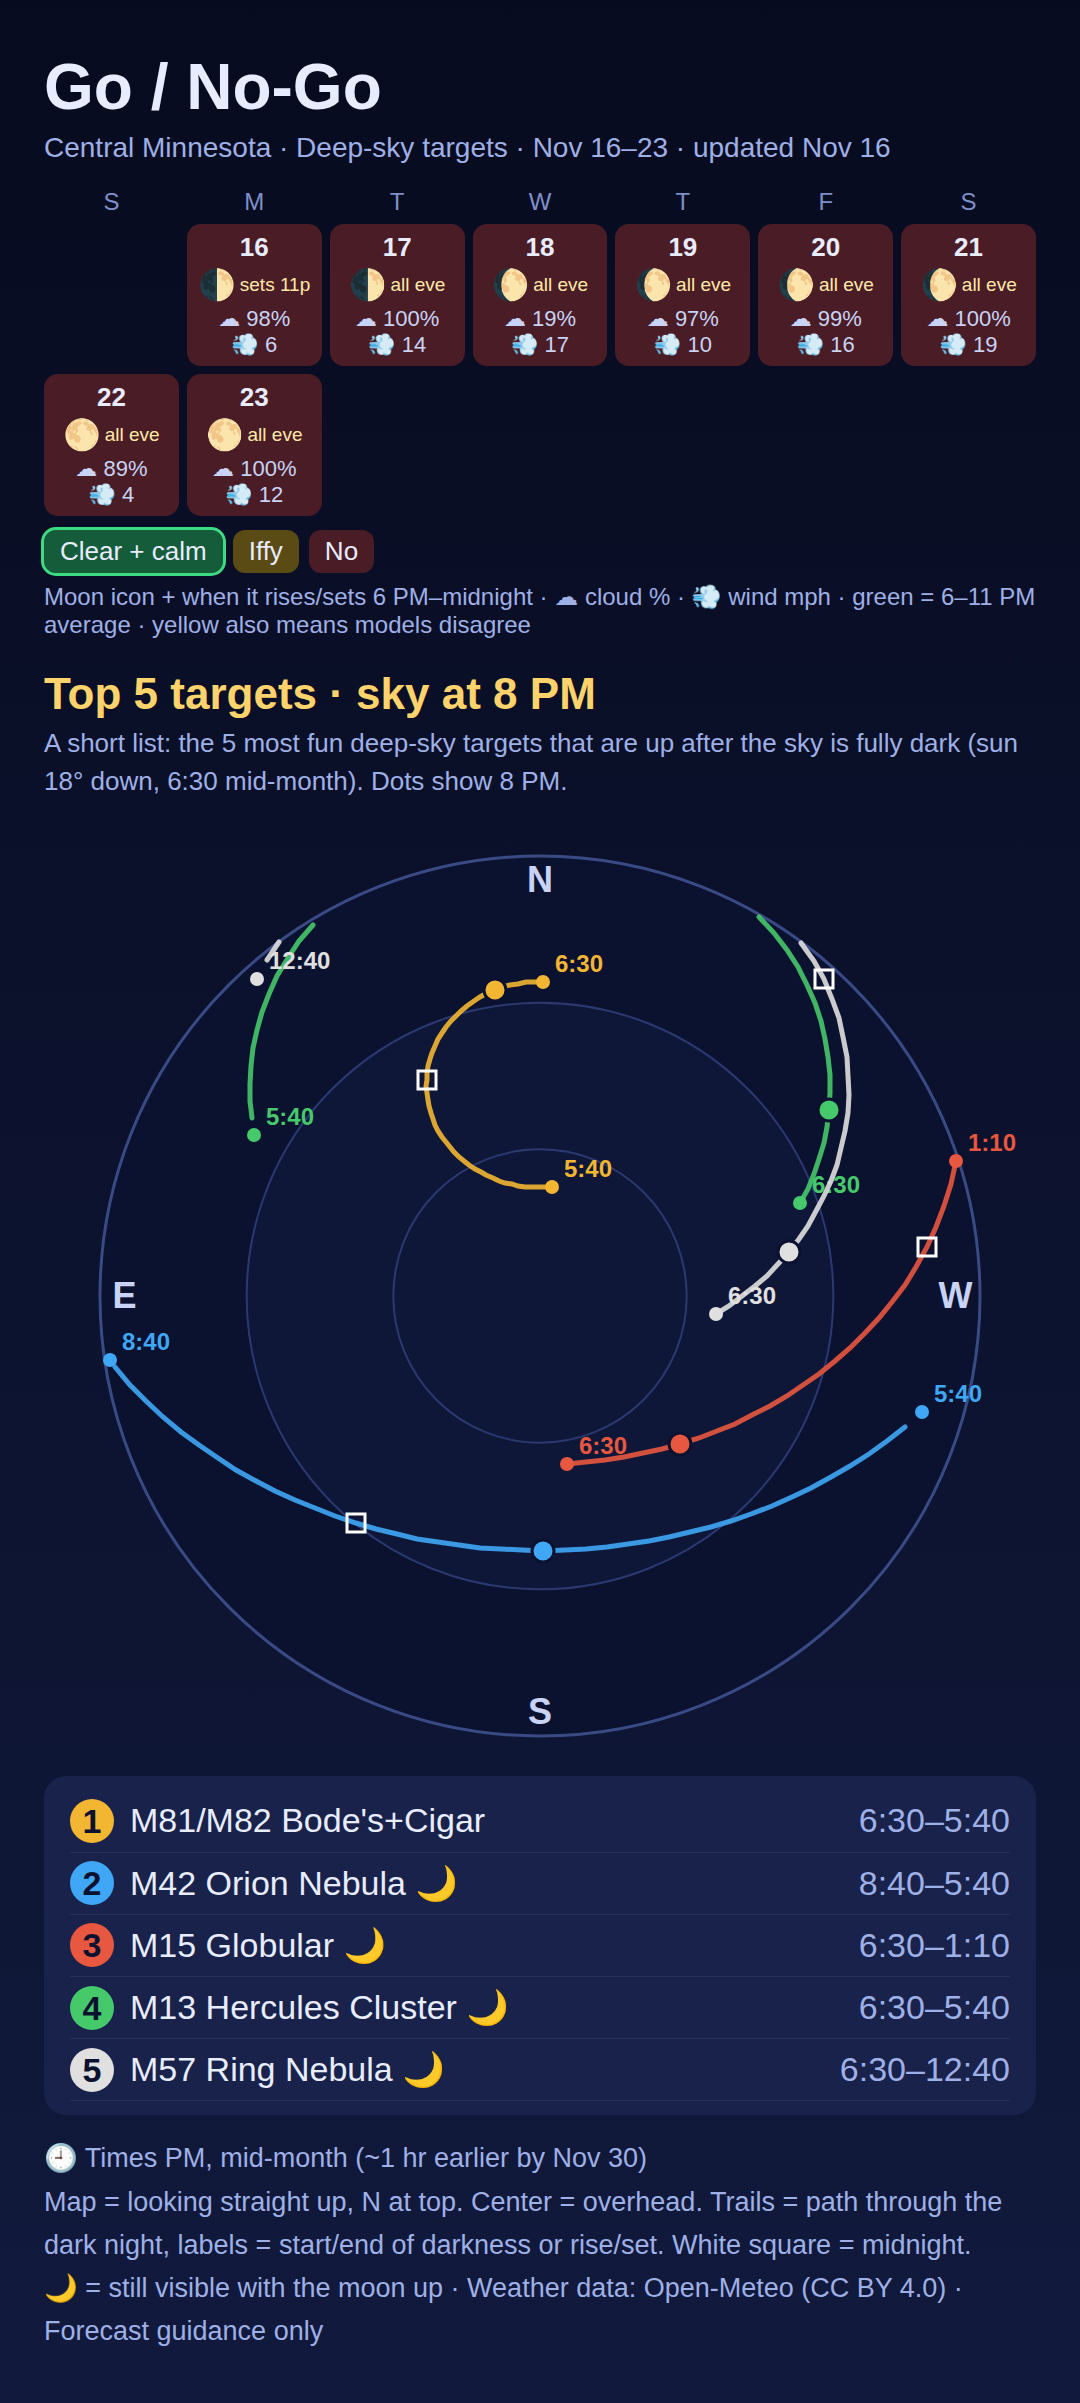
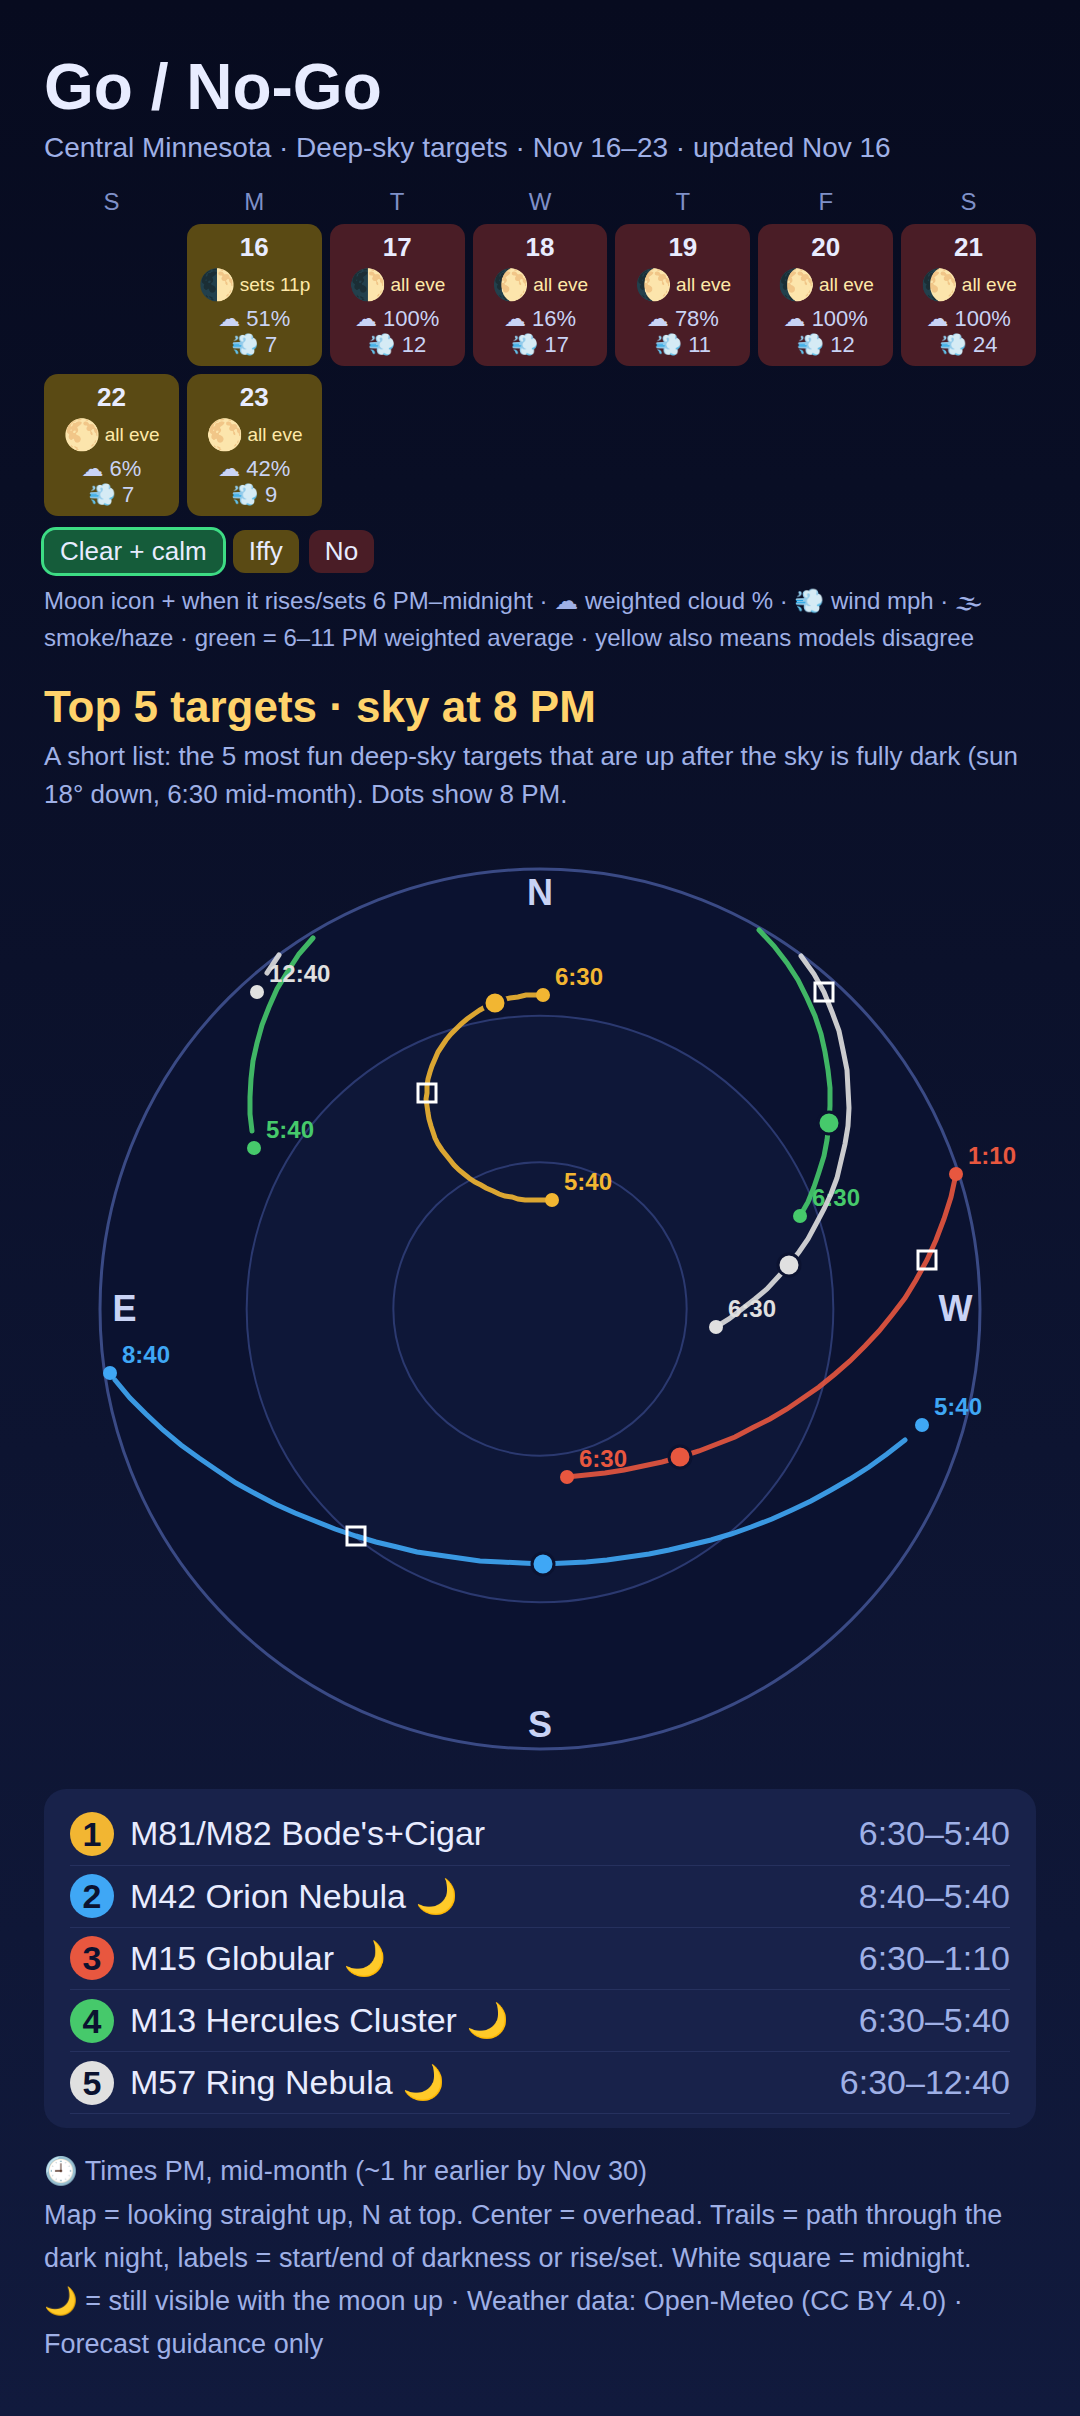
Update stargazing forecast (Nov 16)

diff --git a/_includes/forecast_status.html b/_includes/forecast_status.html
@@ -1,2 +1,2 @@
-<p class="notice--info"><strong>Forecast updated Nov 16:</strong> No GO nights in the latest forecast.</p>
+<p class="notice--info"><strong>Forecast updated Nov 16:</strong> Next good night: Sun Nov 22 (low confidence) (models disagree): M15 Globular, 6:30 pm-9:40 pm (clear 5.5h, longest 6:30 pm-12:00 am, low 22F)</p>
 <p class="small">Weather data: <a href="https://open-meteo.com/">Open-Meteo</a> (CC BY 4.0). Forecast guidance only — check the sky before heading out.</p>
